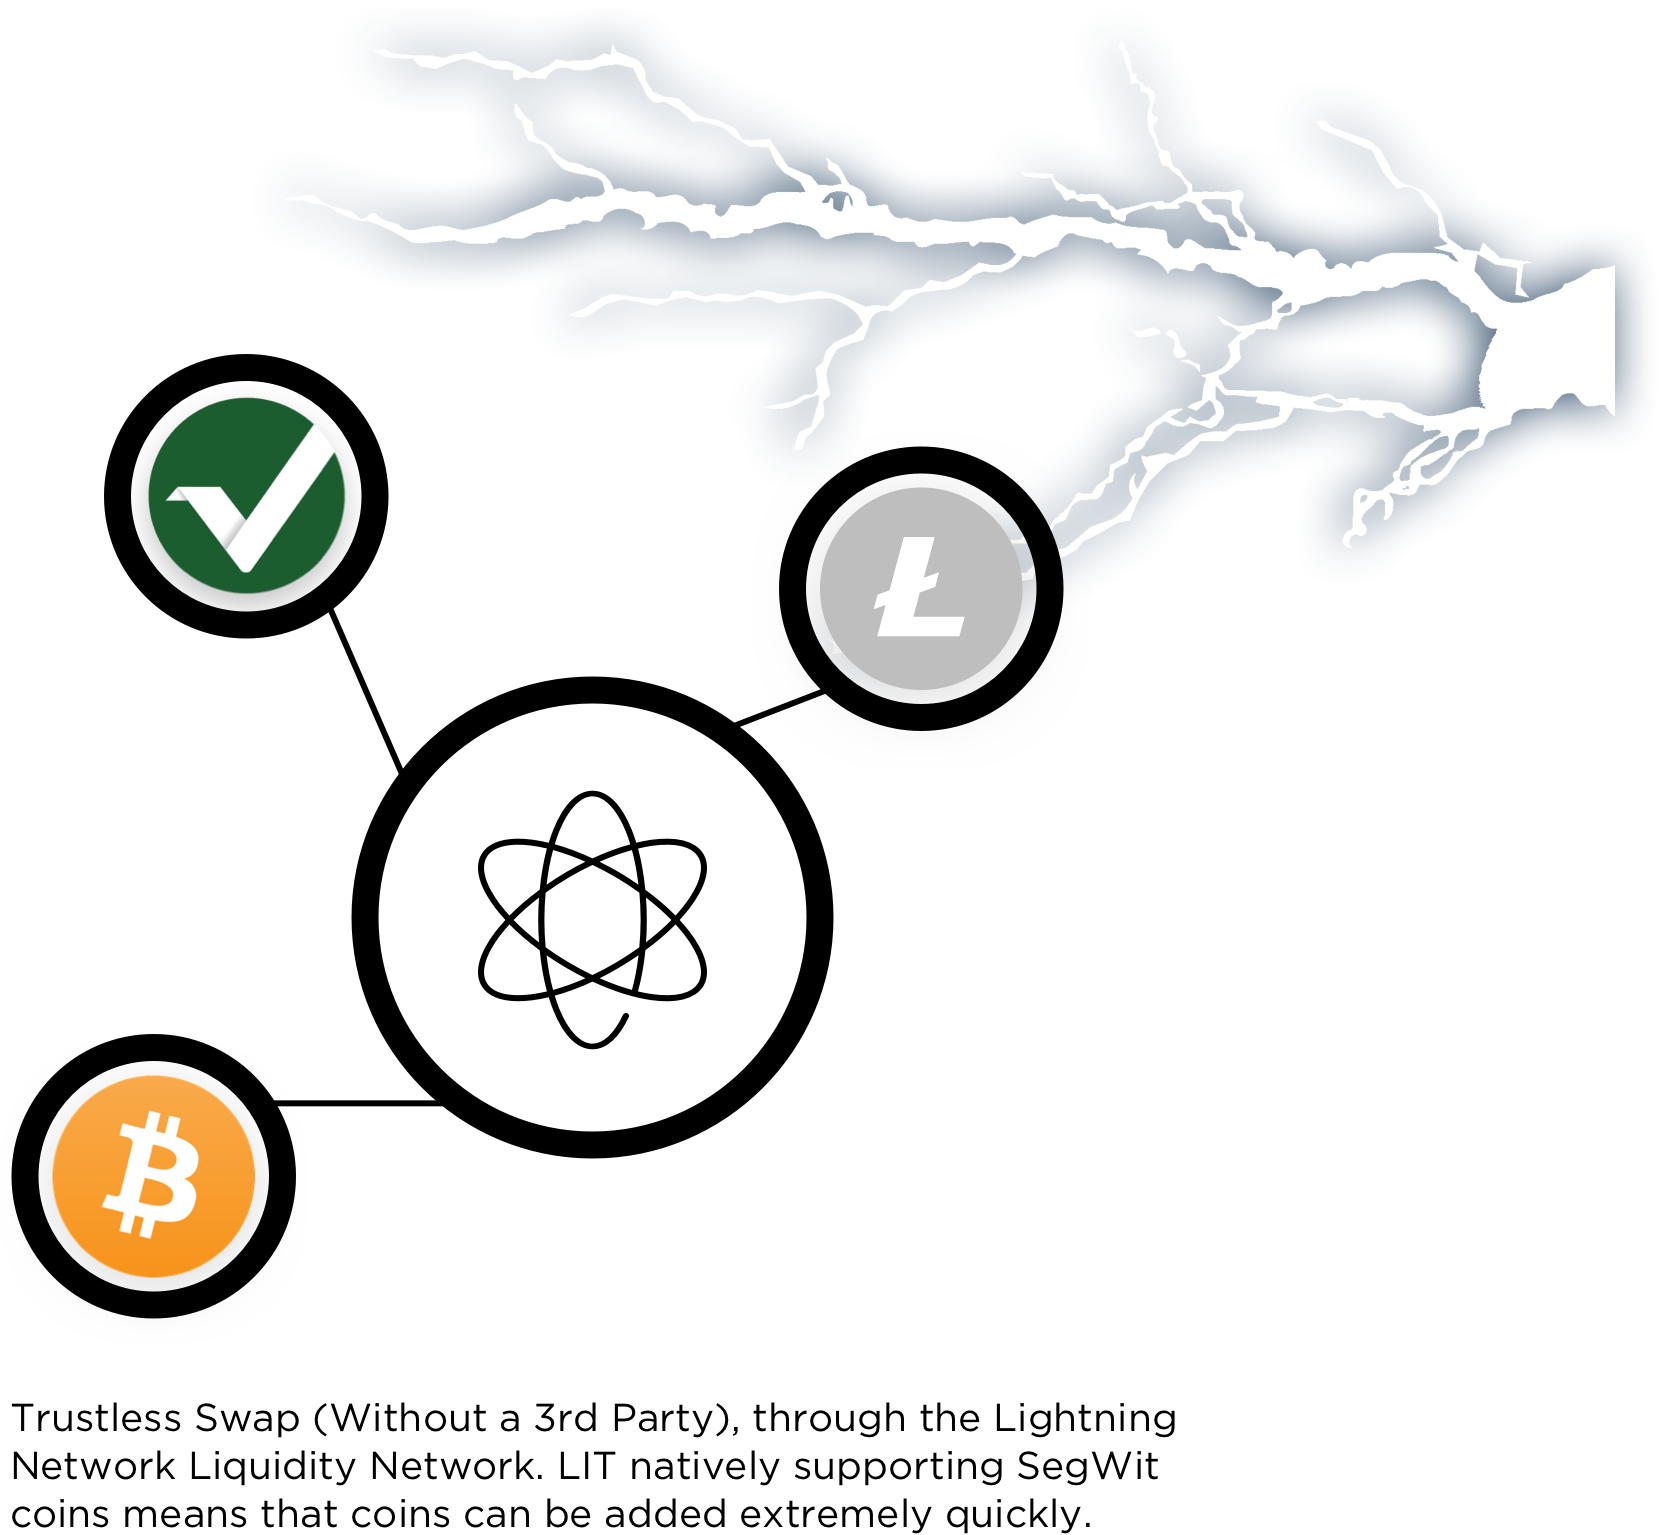
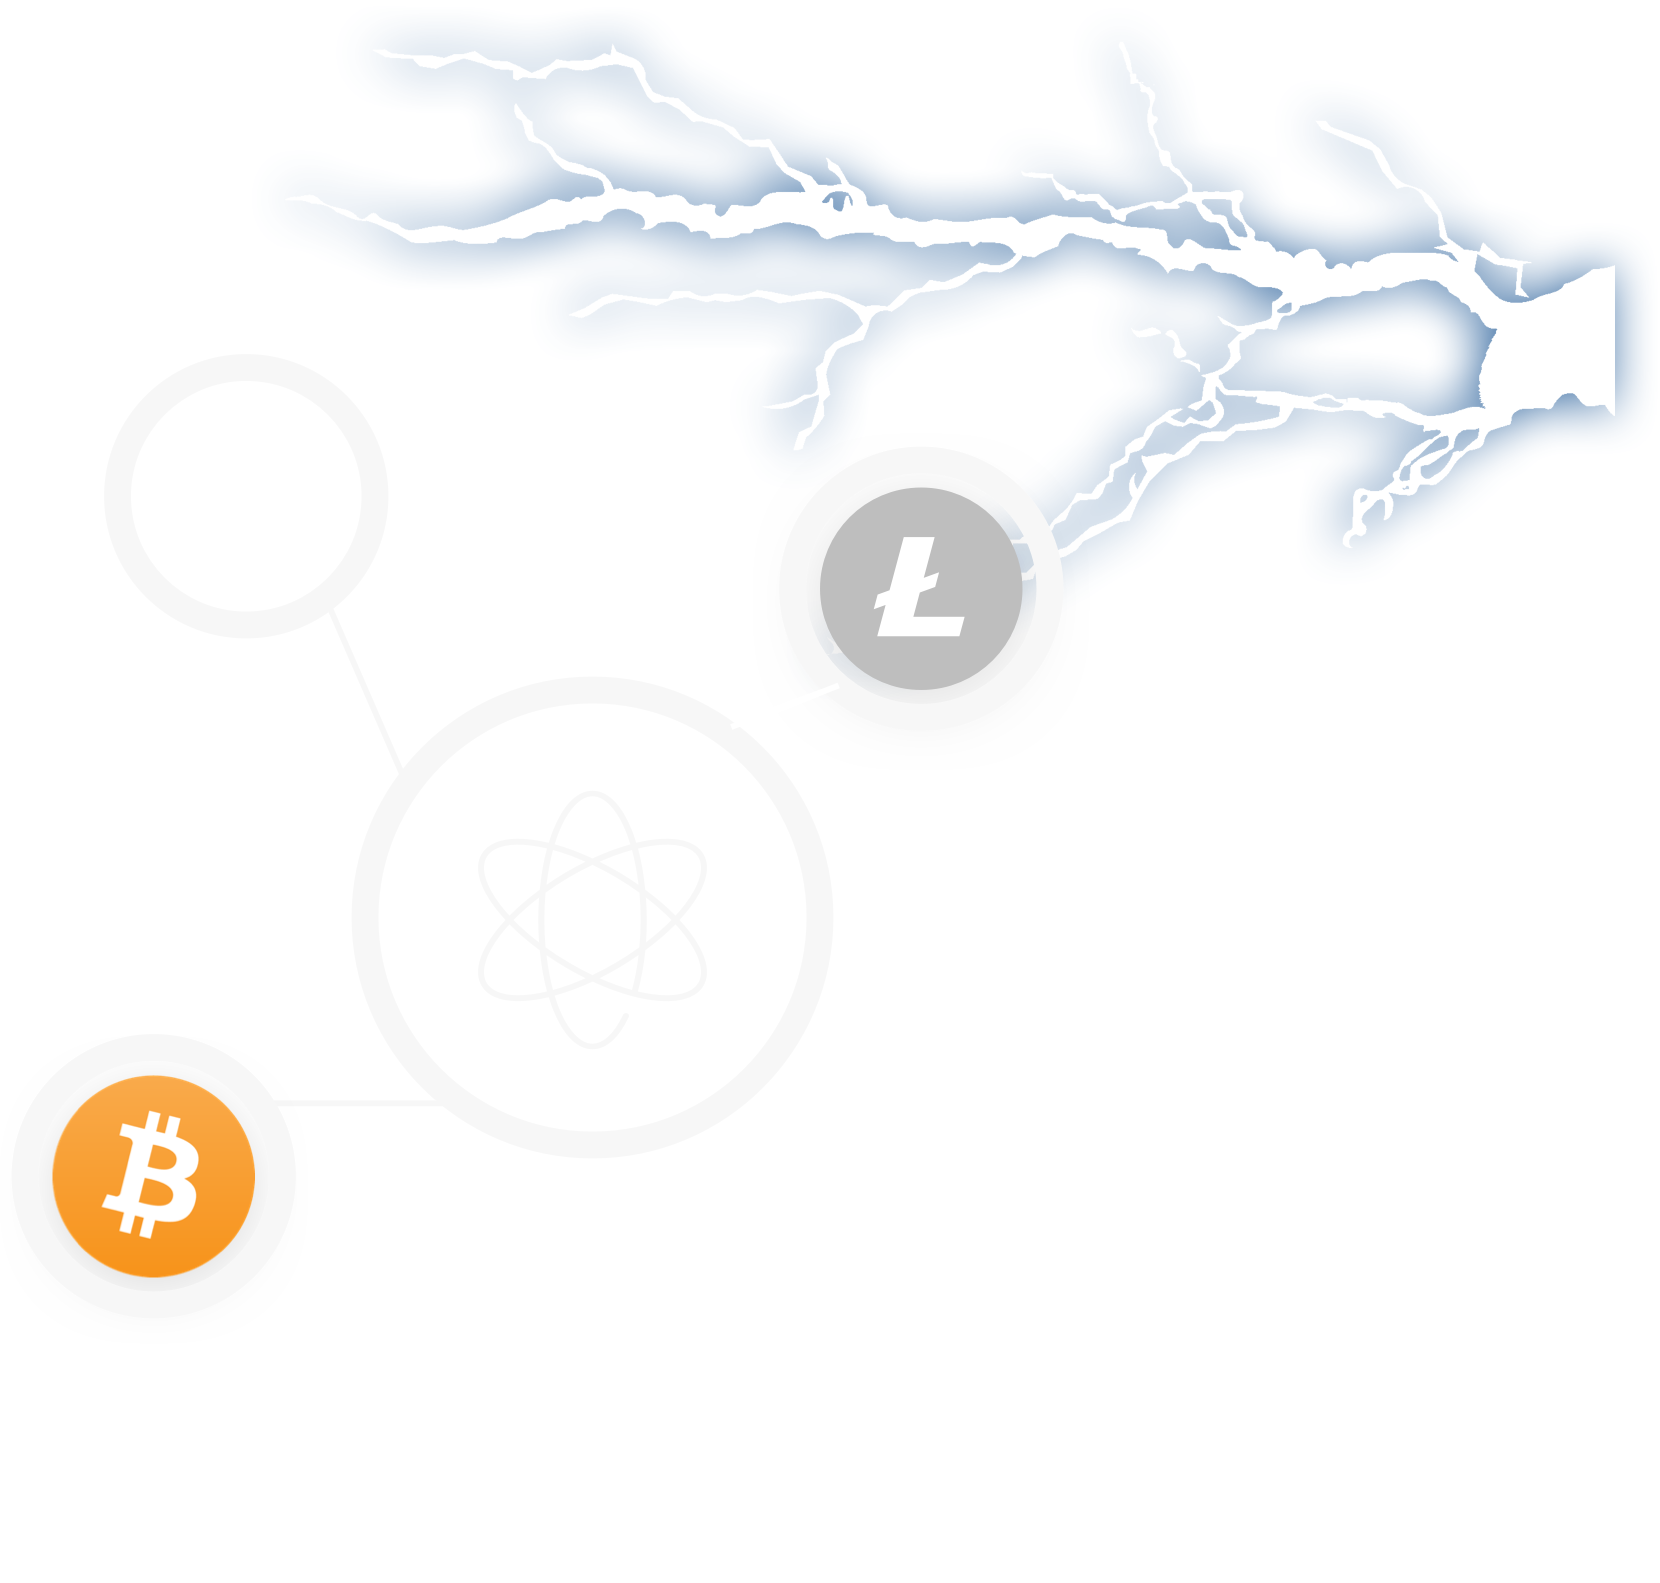
tweaks n stuff

diff --git a/themes/elate/static/css/style.css b/themes/elate/static/css/style.css
@@ -821,6 +821,14 @@ table {
   left: 27px;
   bottom: -5px;
 }
+
+@media screen and (max-width: 767px) {
+  #fh5co-intro .fh5co-block > .fh5co-text {
+    left: 21px;
+  }
+}
+
+
 #fh5co-intro .fh5co-block > .fh5co-text .fh5co-intro-icon {
   font-size: 50px;
   color: #048657;
@@ -2263,7 +2271,7 @@ h4 svg {
   .atomic-swap-image {
     float: left;
     position: relative;
-    width: 536px;
+    width: 526px;
     height: auto;
     margin-top: 20px;
     margin-bottom: 20px;
@@ -2371,7 +2379,11 @@ h2.guideTitles svg {
     font-size: 20.44px;
     margin-left: 27px;
 
-    color:#048657;
+
+  }
+
+  .guideTitles a {
+    color:#048657 !important;
   }
 
   .guideTitles svg {
@@ -2476,8 +2488,8 @@ h2.guideTitles svg {
     display: none;
 
   }
-  .howTitles {
-    color: #048657;
+  .howTitles a {
+    color: #048657 !important;
   }
 }
 
@@ -2718,7 +2730,7 @@ h2.guideTitles svg {
 
 
 @media screen and (max-width: 1024px) {
-  #fh5co-header #navbar li:nth-child(1), #fh5co-header #navbar li:nth-child(2) {
+  #fh5co-header #navbar li:nth-child(1) {
     display: none;
   }
 }

diff --git a/themes/elate/layouts/partials/home-how-questions.html b/themes/elate/layouts/partials/home-how-questions.html
@@ -10,7 +10,7 @@
 
                     {{ range $index, $element := .Site.Params.howQuestion.item }}
 
-                    <h4> <a target="_blank" href='{{ .url }}'>{{ i18n (printf "howQuestion_%d_title" $index) | markdownify }}</a><svg width="35px" height="15px" viewBox="0 0 35 15" version="1.1" xmlns="http://www.w3.org/2000/svg" xmlns:xlink="http://www.w3.org/1999/xlink">
+                    <h4 class="howTitles"> <a target="_blank" href='{{ .url }}'>{{ i18n (printf "howQuestion_%d_title" $index) | markdownify }}</a><svg width="35px" height="15px" viewBox="0 0 35 15" version="1.1" xmlns="http://www.w3.org/2000/svg" xmlns:xlink="http://www.w3.org/1999/xlink">
                         <!-- Generator: Sketch 48.2 (47327) - http://www.bohemiancoding.com/sketch -->
                         <title>Arrow</title>
 

diff --git a/themes/elate/static/css/animate.css b/themes/elate/static/css/animate.css
@@ -1322,10 +1322,10 @@
   }
 }
 
-.fadeIn {
-  -webkit-animation-name: fadeIn;
-  animation-name: fadeIn;
-}
+/*.fadeIn {*/
+  /*-webkit-animation-name: fadeIn;*/
+  /*animation-name: fadeIn;*/
+/*}*/
 
 @-webkit-keyframes fadeInDown {
   from {

diff --git a/themes/elate/static/css/custom-anim.css b/themes/elate/static/css/custom-anim.css
@@ -1,5 +1,5 @@
 .hidden-anim{
-     opacity:0;
+     opacity:1;
 }
 .visible-anim{
      opacity:1;
